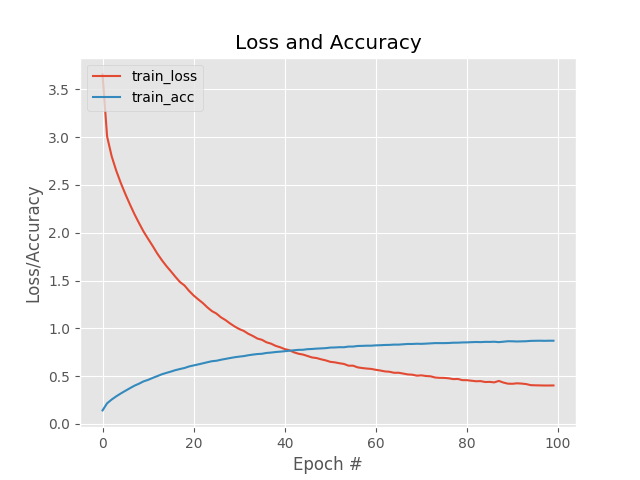
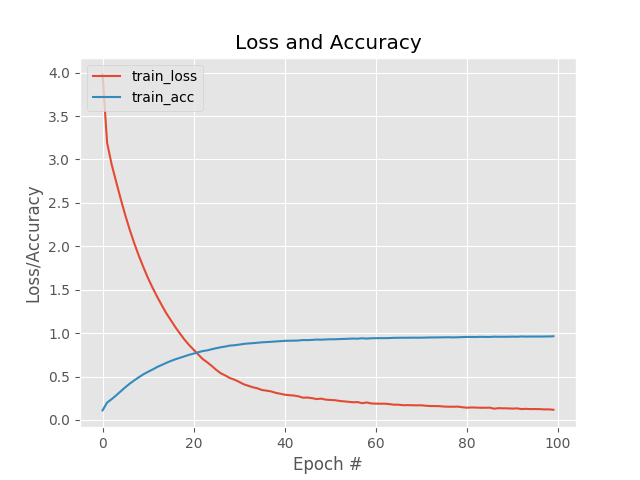
Removing one dropout layer.

diff --git a/src/network_model.py b/src/network_model.py
@@ -12,11 +12,10 @@ class NetworkModel:
 
         model = tf.keras.models.Sequential([
             tf.keras.layers.Bidirectional(
-                tf.keras.layers.LSTM(128, input_shape=(args["sequence_length"], vocab_length))
+                tf.keras.layers.LSTM(256, return_sequences=True, input_shape=(args["sequence_length"], vocab_length))
             ),
             tf.keras.layers.Dropout(0.2),
             tf.keras.layers.LSTM(128),
-            tf.keras.layers.Dropout(0.2),
             tf.keras.layers.Dense(vocab_length, activation='softmax')
         ])
 

diff --git a/src/data_handler.py b/src/data_handler.py
@@ -59,7 +59,7 @@ class DataHandler:
                 print(e)
                 continue
 
-            if i >= 500:
+            if i >= 400:
                 break
 
         print("[INFO] Done loading MIDI files...")
